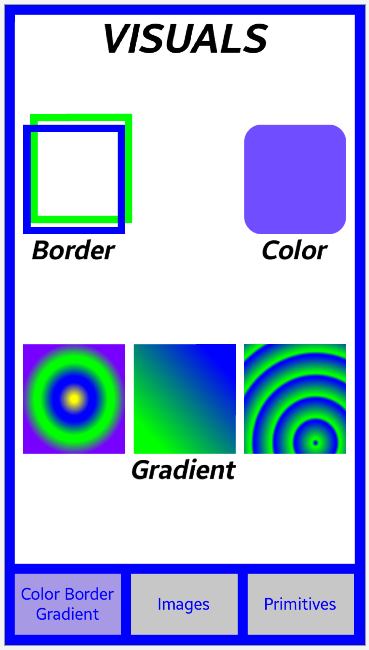
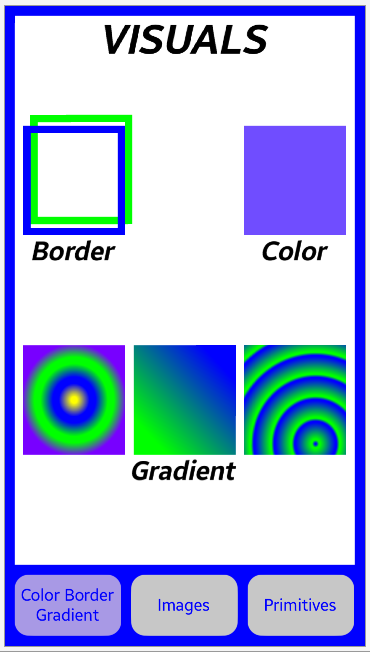
[NUI][Visuals] a line break added and screenshot updated

diff --git a/Mobile/NUI/Visuals/NUI_Visuals/NUI_Visuals.cs b/Mobile/NUI/Visuals/NUI_Visuals/NUI_Visuals.cs
@@ -252,7 +252,7 @@ namespace NUI_Visuals
             int ButtonHeight = (int)ButtonVisualView.Size2D[1];
             Size2D ButtonSize = new Size2D(ButtonWidth, ButtonHeight);
 
-            Buttons.Add(SetButton("Color Border Gradient", 0, ButtonSize));
+            Buttons.Add(SetButton("Color Border\nGradient", 0, ButtonSize));
             Buttons.Add(SetButton("Images", (ButtonWidth + FrameSize), ButtonSize));
             Buttons.Add(SetButton("Primitives", 2 * (ButtonWidth + FrameSize), ButtonSize));
 
